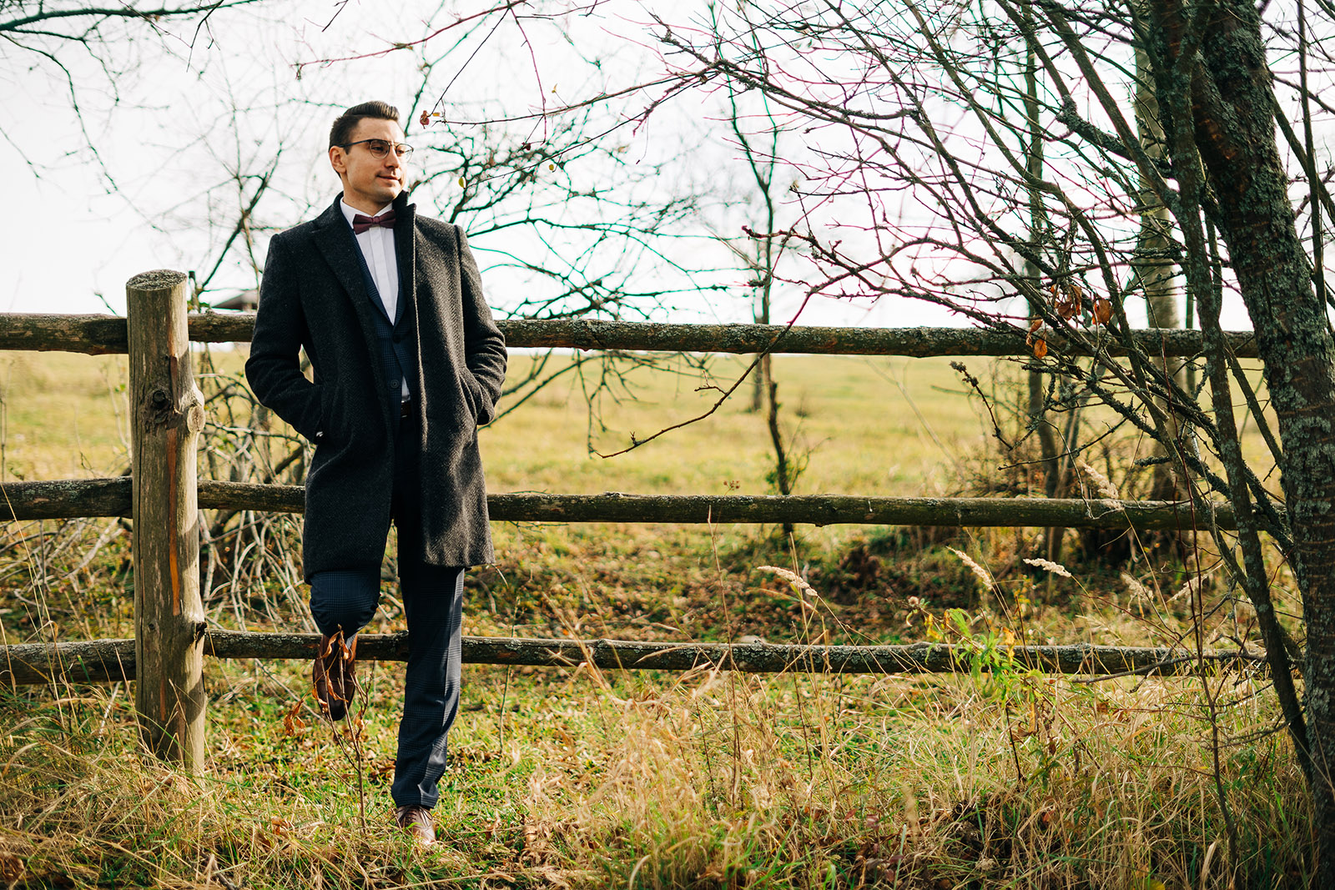
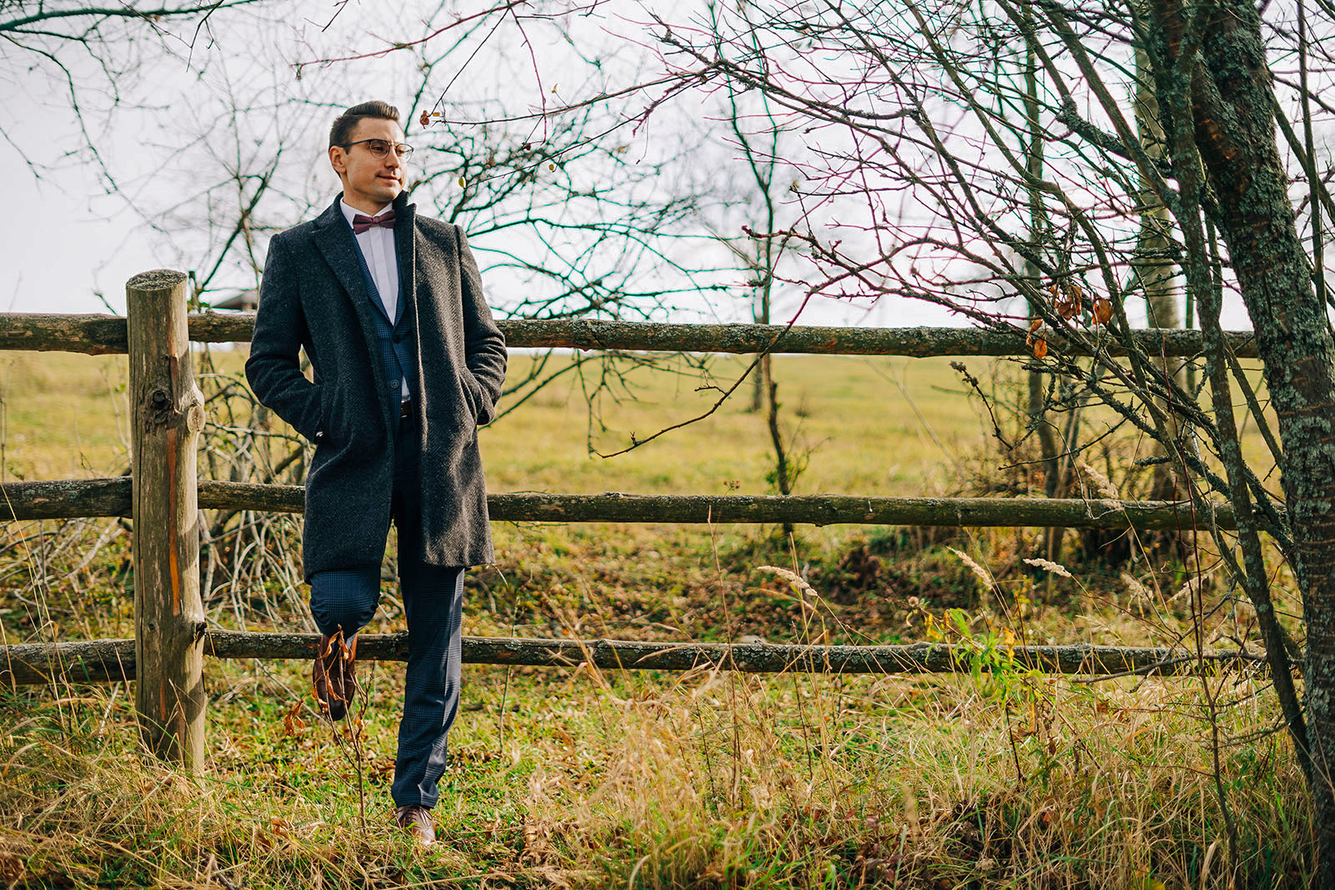
Problems with react routing

diff --git a/src/styles/__typography.scss b/src/styles/__typography.scss
@@ -1,4 +1,5 @@
-@import url("https://fonts.googleapis.com/css?family=Barlow+Condensed:400,500,600,700,800,900&display=swap&subset=latin-ext");
+@import url("https://fonts.googleapis.com/css?family=Barlow+Condensed:100,200,300,400,500,600,700&display=swap&subset=latin-ext");
+@import "./_variables";
 html,
 body {
   font-family: "Advent Pro", "Kanit", "Barlow Condensed", sans-serif;
@@ -8,26 +9,30 @@ body {
   h3 {
     text-transform: uppercase;
     transform: scaleY(1.3);
-    &.ts-none {
-      transform: none;
-    }
-    &.fs-45 {
-      font-size: 4.5rem;
-    }
-
-    &.fw-600 {
-      font-weight: 600;
-    }
-    &.fw-500 {
-      font-weight: 500;
-    }
-    &.fw-400 {
-      font-weight: 400;
-    }
-    &.ls-05 {
-      letter-spacing: 0.5rem;
-    }
   }
+  .ts-none {
+    transform: none;
+  }
+  .fs-45 {
+    font-size: 4.5rem;
+  }
+
+  .fw-600 {
+    font-weight: 600;
+  }
+  .fw-500 {
+    font-weight: 500;
+  }
+  .fw-400 {
+    font-weight: 400;
+  }
+  .fw-200 {
+    font-weight: 200;
+  }
+  .ls-05 {
+    letter-spacing: 0.5rem;
+  }
+
   span {
     &.numbers {
       font-size: 10rem;
@@ -36,6 +41,57 @@ body {
   p {
     &.subheader {
       font-size: 2rem;
+    }
+  }
+  a {
+    display: inherit;
+    text-decoration: none;
+    color: white;
+    font-size: 2rem;
+    margin-bottom: 10px;
+    &:hover {
+      span {
+        background-size: 100% 100%;
+        transition: $cubic-1 0.3s;
+      }
+    }
+    > span {
+      background: linear-gradient($color-11, $color-11);
+      background-position: 0 0;
+      background-repeat: no-repeat;
+      background-size: 0% 100%;
+      transition: $cubic-1 0.2s;
+    }
+    &.socials {
+      display: inline-block;
+      width: 30px;
+      height: 30px;
+      margin-top: 10px;
+      margin-left: 15px;
+      &:hover {
+        > div {
+          transform: scale(1.1);
+          transition: $cubic-1 0.3s;
+        }
+      }
+      &--linkedin {
+        > div {
+          width: 100%;
+          height: 100%;
+          background-image: url("../images/linkedin-letters.svg");
+          background-size: contain;
+          transition: $cubic-1 0.2s;
+        }
+      }
+      &--facebook {
+        > div {
+          width: 100%;
+          height: 100%;
+          background-image: url("../images/facebook-logo.svg");
+          background-size: contain;
+          transition: $cubic-1 0.2s;
+        }
+      }
     }
   }
 }

diff --git a/src/App.js b/src/App.js
@@ -6,6 +6,7 @@ import Section from "./components/Section/Section";
 import "./styles/App.scss";
 import "./styles/Section.scss";
 import "bootstrap/dist/css/bootstrap-grid.min.css";
+import { Switch } from "react-router-dom";
 
 class App extends Component {
   state = {};
@@ -42,10 +43,31 @@ class App extends Component {
         sectionClass: "resume",
         sectionLeftData: {
           id: 2,
-          header: "Curiculum vitae",
+          header: "Curiculum Vitae",
           subheader: "Check my CV and e-CV in 2 language version"
         },
         sectionRightData: { id: 2 }
+      },
+      {
+        sectionClass: "projects",
+        sectionLeftData: {
+          id: 3,
+          header: "Best Projects",
+          subheader: "Greatest and best projects in many technologies"
+        },
+        sectionRightData: { id: 3 }
+      },
+      {
+        sectionClass: "get-in-touch",
+        sectionLeftData: {
+          id: 4,
+          header: "Get In Touch",
+          email: "p.zwolak.93@gmail.com",
+          phone: "+48798630903",
+          linkedin: "https://www.linkedin.com/in/patryk-zwolak-5960a8164/",
+          facebook: "https://www.facebook.com/patryk.zwolak.58"
+        },
+        sectionRightData: { id: 4 }
       }
     ]
   };
@@ -66,6 +88,7 @@ class App extends Component {
     });
     return (
       <div className="App">
+        {/* <Switch></Switch> */}
         <ParallaxBackground />
         <Header />
         <div className="main-section">{displaySections}</div>

diff --git a/src/components/Section/SectionLeftSide.js b/src/components/Section/SectionLeftSide.js
@@ -16,7 +16,34 @@ const SectionLeftSide = ({ sideData }) => {
         <div className="main-section__geometry-element main-section__geometry-element--third"></div>
       </div>
       <div className="main-section__subheader">
-        <p className="subheader">{sideData.subheader}</p>
+        {sideData.subheader ? (
+          <p className="subheader fw-200">{sideData.subheader}</p>
+        ) : (
+          <>
+            <a className="fw-200" href={`mailto:${sideData.email}`}>
+              <span>{sideData.email}</span>
+            </a>
+            <a className="fw-200" href={`tel:${sideData.phone}`}>
+              <span>{sideData.phone}</span>
+            </a>
+            <a
+              className="socials socials--linkedin"
+              href={sideData.linkedin}
+              target="_blank"
+              rel="noopener noreferrer"
+            >
+              <div></div>
+            </a>
+            <a
+              className="socials socials--facebook "
+              href={sideData.facebook}
+              target="_blank"
+              rel="noopener noreferrer"
+            >
+              <div></div>
+            </a>
+          </>
+        )}
       </div>
     </div>
   );

diff --git a/src/components/Button/ButtonPrimary.js b/src/components/Button/ButtonPrimary.js
@@ -1,13 +1,30 @@
 import React from "react";
+import { BrowserRouter as Router, Switch, Route, Link } from "react-router-dom";
+
 const ButtonPrimary = () => {
   return (
     <div className="main-section__element-button primary-button">
       <span></span>
       <div className="mask">
-        <div className="ring"></div>
+        <div className="ring">
+          <Router>
+            <Link to="/example"></Link>
+            <Switch>
+              <Route path="/example" component={Example}>
+                <Example />
+              </Route>
+            </Switch>
+          </Router>
+        </div>
       </div>
     </div>
   );
 };
+
+class Example extends React.Component {
+  render() {
+    return <h2>Example333</h2>;
+  }
+}
 
 export default ButtonPrimary;

diff --git a/src/styles/Section.scss b/src/styles/Section.scss
@@ -72,10 +72,10 @@
     position: absolute;
     width: 100%;
     height: 100%;
-    opacity: 0.4;
-    background-color: $color-11;
-    z-index: 1;
-    filter: brightness(0.5);
+    // opacity: 0.4;
+    // background-color: $color-11;
+    // z-index: 1;
+    // filter: brightness(0.5);
     &--color-5 {
       opacity: 1;
       background-color: $color-5;
@@ -97,7 +97,8 @@
     background-position: center;
     overflow: hidden;
     &--0 {
-      background-image: url("../images/sesja-9.JPG");
+      background-image: url("../images/patryk-zwolak-compressed.jpg");
+      filter: brightness(0.85);
     }
     &--1 {
       background-image: url("../images/sesja-9.JPG");

diff --git a/src/styles/__buttons.scss b/src/styles/__buttons.scss
@@ -26,7 +26,8 @@
     width: calc(var(--primary-button-size) - 3px);
     height: 54px;
     overflow: hidden;
-    transition: $cubic-1 0.6s;
+    // transition: $cubic-1 0.6s;
+    transition: ease 0.5s;
     .ring {
       position: absolute;
       top: -27px;
@@ -34,7 +35,8 @@
       height: calc(var(--primary-button-size) - 3px);
       border: solid 12px $color-11;
       border-radius: calc(var(--primary-button-size) - 3px);
-      transition: $cubic-1 0.6s;
+      // transition: $cubic-1 0.6s;
+      transition: ease 0.5s;
     }
   }
   &:hover {

diff --git a/src/components/Section/SectionRightSide.js b/src/components/Section/SectionRightSide.js
@@ -5,7 +5,10 @@ const SectionRightSide = ({ sideData }) => {
   if (sideData.textOnBanner) {
     banner = sideData.textOnBanner.map((el, index) => {
       return (
-        <div className="main-section__right-side-inner-description-element">
+        <div
+          key={el.line}
+          className="main-section__right-side-inner-description-element"
+        >
           <h3
             className={`main-section__right-side-inner-description-element--number-${index} fw-500`}
           >

diff --git a/src/components/Subpages/Example.js b/src/components/Subpages/Example.js
@@ -1,0 +1,12 @@
+import React from "react";
+
+const Example = () => {
+  return (
+    <div>
+      <h1>Elo elo</h1>
+    </div>
+  );
+};
+import React from "react";
+
+export default Example;

diff --git a/src/styles/__globals.scss b/src/styles/__globals.scss
@@ -3,3 +3,9 @@
   margin: 0;
   box-sizing: border-box;
 }
+.ring {
+  a {
+    width: 100%;
+    height: 100%;
+  }
+}
